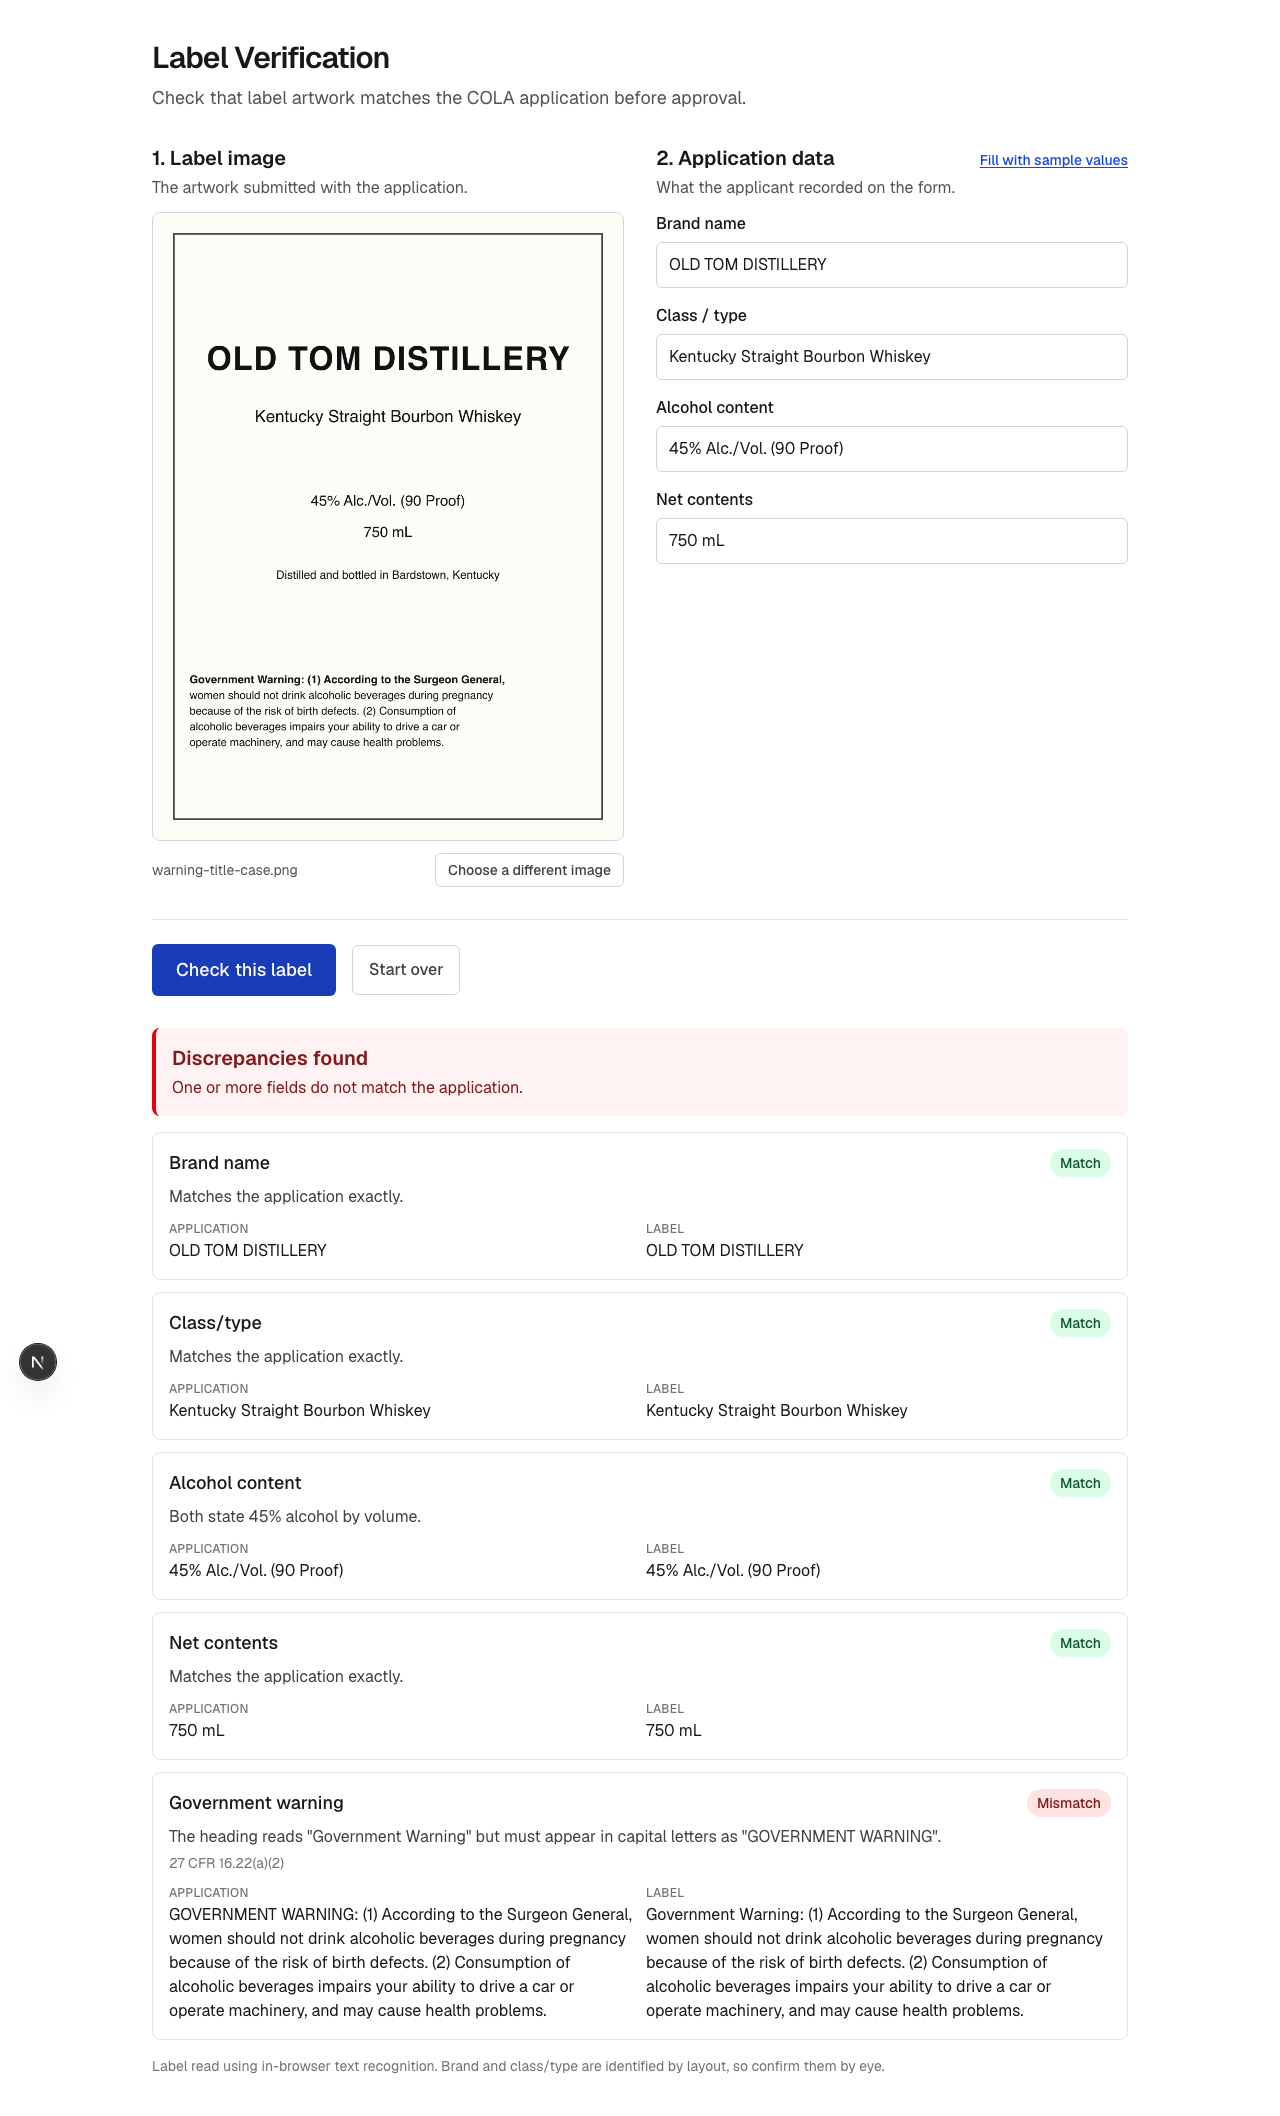
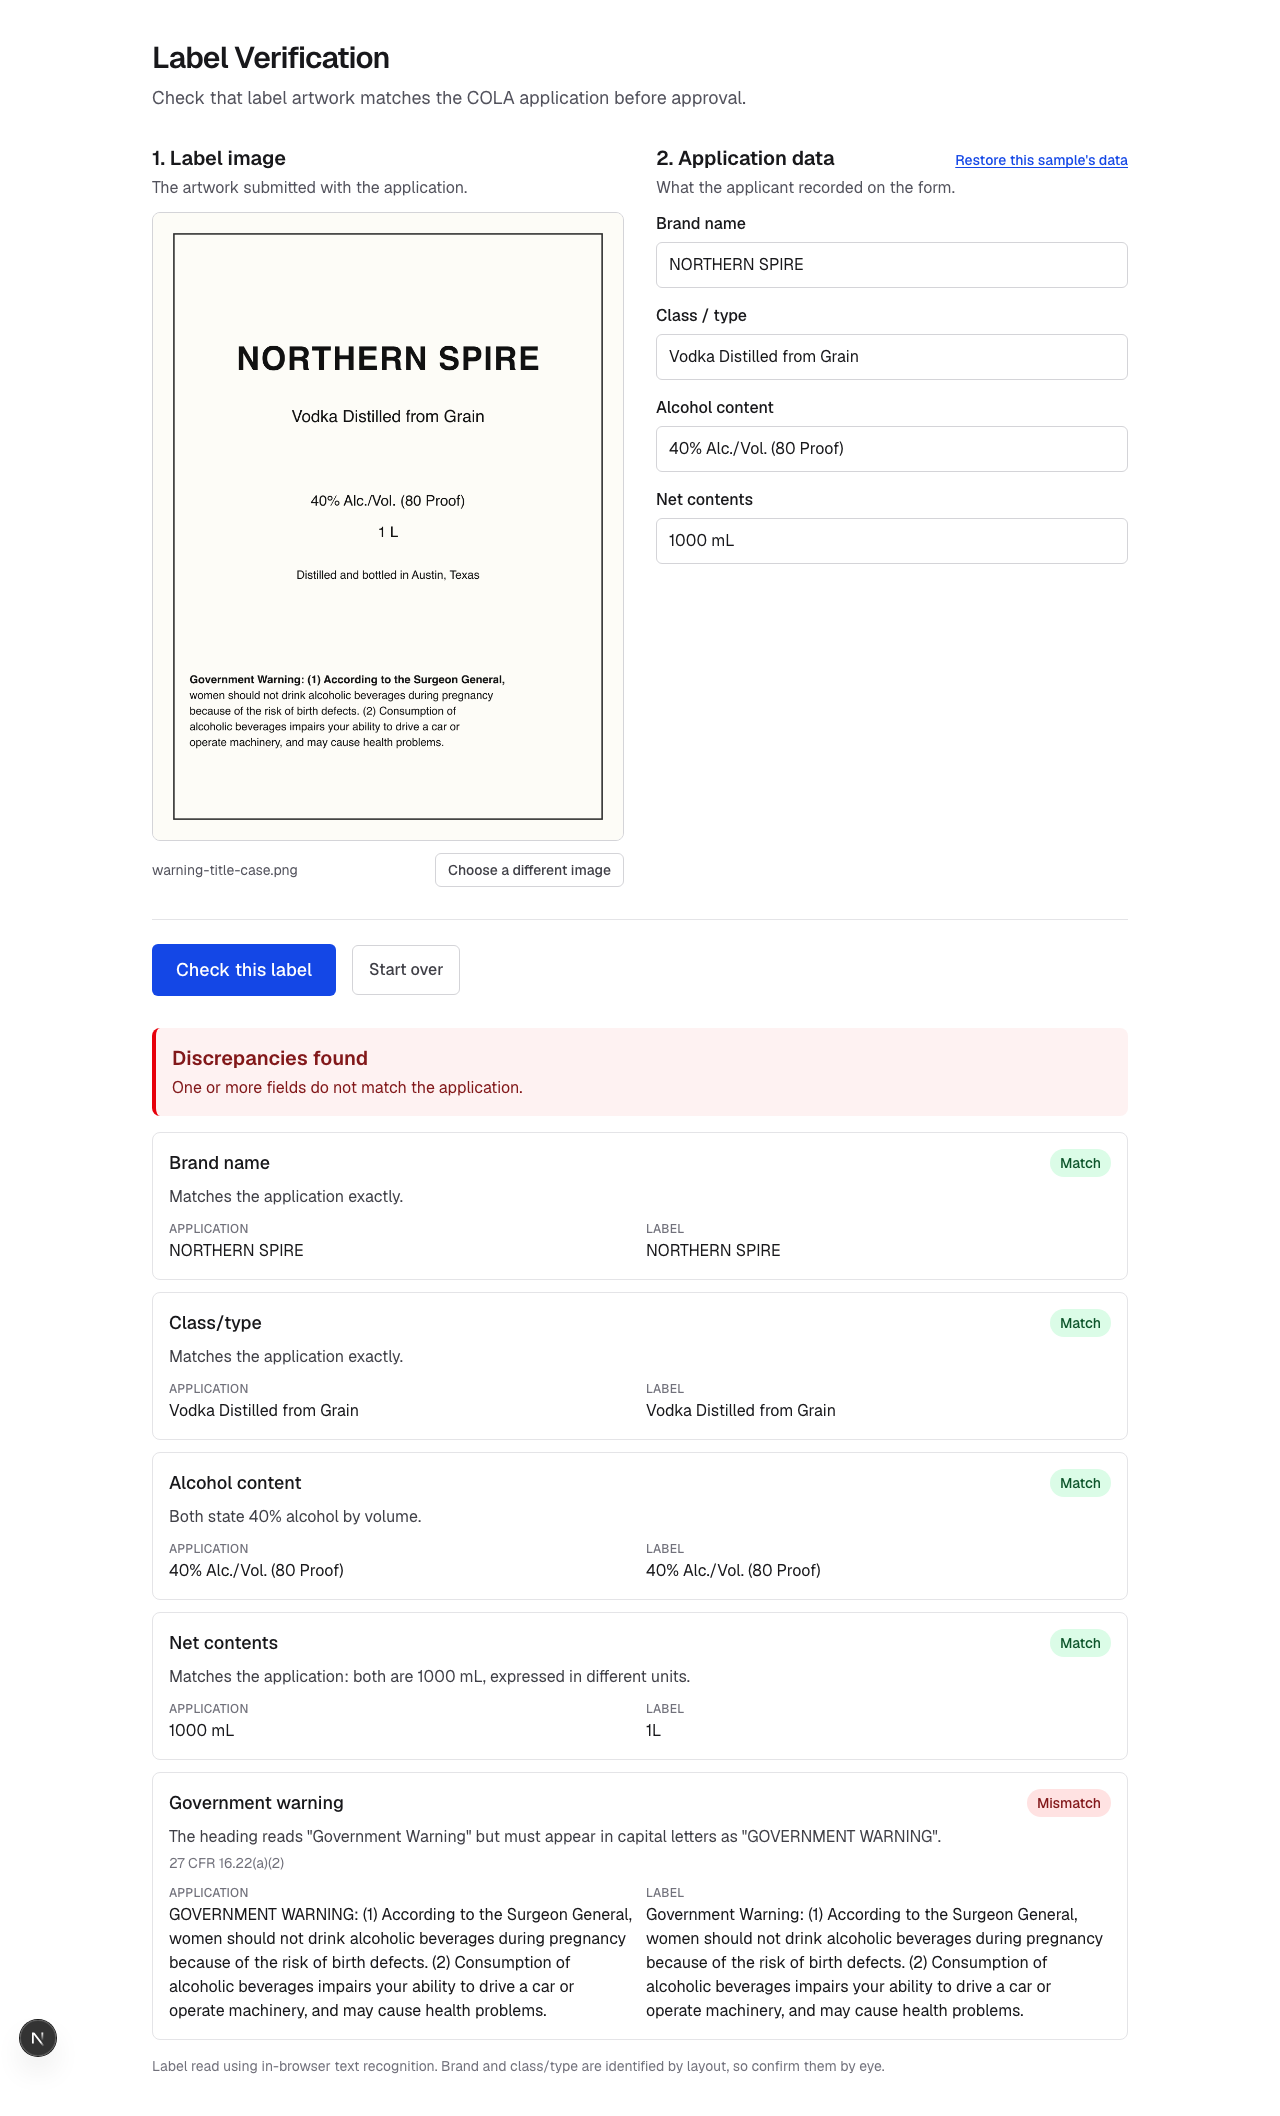
Give each sample label its own product and application
All six samples were the same bourbon checked against one shared application
record, which made the demo look like a single case repeated and hid the fact
that the application data travels with the label. Each sample is now a distinct
product with its own record, so the picker reads as six separate filings.

Two behaviours become visible as a result: the vodka is recorded in millilitres
against a label printed in litres, exercising unit conversion, and the wine
carries a sulfite declaration, confirming that extra label copy is not mistaken
for a field. The example data given in the brief stays in the unit tests.

diff --git a/lib/extraction/ocr.e2e.test.ts b/lib/extraction/ocr.e2e.test.ts
@@ -2,19 +2,12 @@ import { readFile } from "node:fs/promises";
 import { join } from "node:path";
 import { createWorker, type Worker } from "tesseract.js";
 import { afterAll, beforeAll, describe, expect, it } from "vitest";
-import type { ApplicationData } from "@/lib/verification/types";
+import { SAMPLE_LABELS } from "@/lib/samples";
 import { verify } from "@/lib/verification/verify";
 import { configureWorker } from "./ocr";
 import { extractFieldsFromOcr, type OcrLine } from "./parse-ocr";
 
 const SAMPLES = join(process.cwd(), "public", "samples");
-
-const APPLICATION: ApplicationData = {
-  brandName: "OLD TOM DISTILLERY",
-  classType: "Kentucky Straight Bourbon Whiskey",
-  alcoholContent: "45% Alc./Vol. (90 Proof)",
-  netContents: "750 mL",
-};
 
 let worker: Worker;
 
@@ -34,6 +27,14 @@ async function read(file: string) {
   return extractFieldsFromOcr(data.text ?? "", lines);
 }
 
+/** Each sample carries its own application record, so pair them by filename. */
+async function check(file: string) {
+  const sample = SAMPLE_LABELS.find((entry) => entry.file === file);
+  if (!sample) throw new Error(`No sample is registered for ${file}`);
+
+  return verify(sample.application, await read(file));
+}
+
 describe("OCR over the sample labels", () => {
   beforeAll(async () => {
     worker = await createWorker("eng");
@@ -45,7 +46,7 @@ describe("OCR over the sample labels", () => {
   });
 
   it("passes a fully compliant label", async () => {
-    const report = verify(APPLICATION, await read("compliant.png"));
+    const report = await check("compliant.png");
 
     expect(
       report.checks.map((check) => `${check.fieldId}:${check.status}`),
@@ -60,15 +61,23 @@ describe("OCR over the sample labels", () => {
   }, 60_000);
 
   it("catches a title-case warning heading", async () => {
-    const report = verify(APPLICATION, await read("warning-title-case.png"));
+    const report = await check("warning-title-case.png");
     const warning = report.checks.at(-1)!;
 
     expect(warning.status).toBe("mismatch");
     expect(warning.citation).toBe("27 CFR 16.22(a)(2)");
   }, 60_000);
 
+  it("accepts a label in litres against a record in millilitres", async () => {
+    const report = await check("warning-title-case.png");
+
+    expect(
+      report.checks.find((check) => check.fieldId === "netContents")?.status,
+    ).toBe("match");
+  }, 60_000);
+
   it("catches an alcohol content that differs from the application", async () => {
-    const report = verify(APPLICATION, await read("alcohol-mismatch.png"));
+    const report = await check("alcohol-mismatch.png");
 
     expect(report.verdict).toBe("fail");
     expect(
@@ -77,7 +86,7 @@ describe("OCR over the sample labels", () => {
   }, 60_000);
 
   it("catches a label whose proof contradicts its percentage", async () => {
-    const report = verify(APPLICATION, await read("proof-contradiction.png"));
+    const report = await check("proof-contradiction.png");
     const alcohol = report.checks.find(
       (check) => check.fieldId === "alcoholContent",
     )!;
@@ -87,13 +96,13 @@ describe("OCR over the sample labels", () => {
   }, 60_000);
 
   it("reports a label with no warning at all", async () => {
-    const report = verify(APPLICATION, await read("missing-warning.png"));
+    const report = await check("missing-warning.png");
 
     expect(report.checks.at(-1)!.status).toBe("missing");
   }, 60_000);
 
   it("passes a brand that differs only in capitalization", async () => {
-    const report = verify(APPLICATION, await read("brand-case.png"));
+    const report = await check("brand-case.png");
 
     expect(
       report.checks.find((check) => check.fieldId === "brandName")?.status,

diff --git a/lib/samples.ts b/lib/samples.ts
@@ -1,48 +1,91 @@
 import type { ApplicationData } from "@/lib/verification/types";
 
-/** Every sample label is drawn against this same application record. */
-export const SAMPLE_APPLICATION: ApplicationData = {
-  brandName: "OLD TOM DISTILLERY",
-  classType: "Kentucky Straight Bourbon Whiskey",
-  alcoholContent: "45% Alc./Vol. (90 Proof)",
-  netContents: "750 mL",
-};
-
 export interface SampleLabel {
   file: string;
-  name: string;
+  /** The discrepancy this label was drawn to demonstrate. */
+  scenario: string;
+  product: string;
   expect: string;
+  /** The application record this particular label is checked against. */
+  application: ApplicationData;
 }
 
 export const SAMPLE_LABELS: SampleLabel[] = [
   {
     file: "compliant.png",
-    name: "Compliant label",
-    expect: "Everything agrees",
+    scenario: "Fully compliant",
+    product: "Ironwood Reserve — bourbon",
+    expect: "Verifies clean",
+    application: {
+      brandName: "IRONWOOD RESERVE",
+      classType: "Kentucky Straight Bourbon Whiskey",
+      alcoholContent: "45% Alc./Vol. (90 Proof)",
+      netContents: "750 mL",
+    },
   },
   {
     file: "brand-case.png",
-    name: "Brand in mixed case",
+    scenario: "Brand in mixed case",
+    product: "Verdant Hollow Botanicals — gin",
     expect: "Still a match",
+    application: {
+      brandName: "VERDANT HOLLOW BOTANICALS",
+      classType: "London Dry Gin",
+      alcoholContent: "47% Alc./Vol. (94 Proof)",
+      netContents: "700 mL",
+    },
   },
   {
     file: "warning-title-case.png",
-    name: "Warning not capitalized",
+    scenario: "Warning not capitalized",
+    product: "Northern Spire — vodka",
     expect: "Rejected",
+    // Recorded in millilitres against a label that reads "1 L", which the
+    // net contents check resolves by converting both.
+    application: {
+      brandName: "NORTHERN SPIRE",
+      classType: "Vodka Distilled from Grain",
+      alcoholContent: "40% Alc./Vol. (80 Proof)",
+      netContents: "1000 mL",
+    },
   },
   {
     file: "alcohol-mismatch.png",
-    name: "Wrong alcohol content",
+    scenario: "Wrong alcohol content",
+    product: "Casa Miraflores — tequila",
     expect: "Rejected",
+    application: {
+      brandName: "CASA MIRAFLORES",
+      classType: "Tequila Reposado",
+      alcoholContent: "40% Alc./Vol. (80 Proof)",
+      netContents: "750 mL",
+    },
   },
   {
     file: "proof-contradiction.png",
-    name: "Proof contradicts ABV",
+    scenario: "Proof contradicts ABV",
+    product: "Salt Meadow — rum",
     expect: "Rejected",
+    application: {
+      brandName: "SALT MEADOW",
+      classType: "Aged Caribbean Rum",
+      alcoholContent: "43% Alc./Vol. (86 Proof)",
+      netContents: "750 mL",
+    },
   },
   {
     file: "missing-warning.png",
-    name: "No health warning",
+    scenario: "No health warning",
+    product: "Pine Fork Vineyards — cabernet",
     expect: "Needs review",
+    application: {
+      brandName: "PINE FORK VINEYARDS",
+      classType: "Napa Valley Cabernet Sauvignon",
+      alcoholContent: "13.5% Alc./Vol.",
+      netContents: "750 mL",
+    },
   },
 ];
+
+/** Used by the form's fill button before any sample has been chosen. */
+export const SAMPLE_APPLICATION = SAMPLE_LABELS[0].application;

diff --git a/components/label-verifier.tsx b/components/label-verifier.tsx
@@ -8,7 +8,7 @@ import { SamplePicker } from "@/components/sample-picker";
 import { extractLabel, type ExtractionStage } from "@/lib/extraction/client";
 import { warmUpOcr } from "@/lib/extraction/ocr";
 import { ExtractionError, type ExtractionSource } from "@/lib/extraction/types";
-import { SAMPLE_APPLICATION } from "@/lib/samples";
+import { SAMPLE_APPLICATION, type SampleLabel } from "@/lib/samples";
 import type { ApplicationData, VerificationReport } from "@/lib/verification/types";
 import { verify } from "@/lib/verification/verify";
 
@@ -38,6 +38,7 @@ interface Outcome {
 
 export function LabelVerifier() {
   const [file, setFile] = useState<File | null>(null);
+  const [sample, setSample] = useState<SampleLabel | null>(null);
   const [application, setApplication] = useState<ApplicationData>(EMPTY);
   const [stage, setStage] = useState<ExtractionStage | null>(null);
   const [outcome, setOutcome] = useState<Outcome | null>(null);
@@ -93,15 +94,24 @@ export function LabelVerifier() {
     }
   }
 
-  function chooseSample(sample: File) {
-    setFile(sample);
-    setApplication(SAMPLE_APPLICATION);
+  function chooseSample(chosen: SampleLabel, image: File) {
+    setFile(image);
+    setSample(chosen);
+    setApplication(chosen.application);
     setOutcome(null);
     setError(null);
   }
 
+  // An uploaded image has no application record of its own, so any sample
+  // loaded earlier no longer describes what is on screen.
+  function selectFile(chosen: File | null) {
+    setFile(chosen);
+    setSample(null);
+  }
+
   function reset() {
     setFile(null);
+    setSample(null);
     setApplication(EMPTY);
     setOutcome(null);
     setError(null);
@@ -126,7 +136,7 @@ export function LabelVerifier() {
             <p className="mb-3 mt-1 text-zinc-600">
               The artwork submitted with the application.
             </p>
-            <ImageDrop file={file} onSelect={setFile} disabled={busy} />
+            <ImageDrop file={file} onSelect={selectFile} disabled={busy} />
           </div>
 
           {!file && <SamplePicker onChoose={chooseSample} disabled={busy} />}
@@ -139,11 +149,13 @@ export function LabelVerifier() {
             </h2>
             <button
               type="button"
-              onClick={() => setApplication(SAMPLE_APPLICATION)}
+              onClick={() =>
+                setApplication(sample?.application ?? SAMPLE_APPLICATION)
+              }
               disabled={busy}
               className="text-sm font-medium text-blue-700 underline underline-offset-2 hover:text-blue-900 disabled:opacity-50"
             >
-              Fill with sample values
+              {sample ? "Restore this sample's data" : "Fill with sample values"}
             </button>
           </div>
           <p className="mb-3 mt-1 text-zinc-600">

diff --git a/components/sample-picker.tsx b/components/sample-picker.tsx
@@ -4,7 +4,7 @@ import { useState } from "react";
 import { SAMPLE_LABELS, type SampleLabel } from "@/lib/samples";
 
 interface Props {
-  onChoose: (file: File) => void;
+  onChoose: (sample: SampleLabel, file: File) => void;
   disabled?: boolean;
 }
 
@@ -21,7 +21,7 @@ export function SamplePicker({ onChoose, disabled }: Props) {
       if (!response.ok) throw new Error(String(response.status));
 
       const blob = await response.blob();
-      onChoose(new File([blob], sample.file, { type: "image/png" }));
+      onChoose(sample, new File([blob], sample.file, { type: "image/png" }));
     } catch {
       setError("That sample could not be loaded. Try uploading an image instead.");
     } finally {
@@ -35,8 +35,8 @@ export function SamplePicker({ onChoose, disabled }: Props) {
         No label to hand? Try one of these
       </h3>
       <p className="mt-1 text-sm text-zinc-600">
-        Each one loads the matching application data too, so you can check it
-        straight away.
+        Six different applications, each with its own product. Choosing one
+        loads its application data too, so you can check it straight away.
       </p>
 
       <ul className="mt-3 grid grid-cols-2 gap-2 sm:grid-cols-3">
@@ -44,14 +44,18 @@ export function SamplePicker({ onChoose, disabled }: Props) {
           <li key={sample.file}>
             <button
               type="button"
+              data-sample={sample.file}
               onClick={() => choose(sample)}
               disabled={disabled || loading !== null}
               className="flex h-full w-full flex-col items-start gap-1 rounded-md border border-zinc-300 p-2.5 text-left hover:border-zinc-500 hover:bg-zinc-50 disabled:opacity-50"
             >
               <span className="text-sm font-medium text-zinc-900">
-                {loading === sample.file ? "Loading…" : sample.name}
+                {loading === sample.file ? "Loading…" : sample.scenario}
               </span>
-              <span className="text-xs text-zinc-600">{sample.expect}</span>
+              <span className="text-xs text-zinc-600">{sample.product}</span>
+              <span className="mt-auto pt-1 text-xs font-medium text-zinc-500">
+                {sample.expect}
+              </span>
             </button>
           </li>
         ))}

diff --git a/components/application-form.tsx b/components/application-form.tsx
@@ -1,5 +1,6 @@
 "use client";
 
+import { SAMPLE_APPLICATION } from "@/lib/samples";
 import type { ApplicationData } from "@/lib/verification/types";
 
 interface Props {
@@ -8,19 +9,11 @@ interface Props {
   disabled?: boolean;
 }
 
-const FIELDS: { key: keyof ApplicationData; label: string; hint: string }[] = [
-  { key: "brandName", label: "Brand name", hint: "OLD TOM DISTILLERY" },
-  {
-    key: "classType",
-    label: "Class / type",
-    hint: "Kentucky Straight Bourbon Whiskey",
-  },
-  {
-    key: "alcoholContent",
-    label: "Alcohol content",
-    hint: "45% Alc./Vol. (90 Proof)",
-  },
-  { key: "netContents", label: "Net contents", hint: "750 mL" },
+const FIELDS: { key: keyof ApplicationData; label: string }[] = [
+  { key: "brandName", label: "Brand name" },
+  { key: "classType", label: "Class / type" },
+  { key: "alcoholContent", label: "Alcohol content" },
+  { key: "netContents", label: "Net contents" },
 ];
 
 export function ApplicationForm({ value, onChange, disabled }: Props) {
@@ -38,7 +31,7 @@ export function ApplicationForm({ value, onChange, disabled }: Props) {
             id={field.key}
             type="text"
             value={value[field.key]}
-            placeholder={field.hint}
+            placeholder={SAMPLE_APPLICATION[field.key]}
             disabled={disabled}
             onChange={(event) =>
               onChange({ ...value, [field.key]: event.target.value })

diff --git a/README.md b/README.md
@@ -15,18 +15,19 @@ browser, so the deployment holds no keys and stores nothing.
 
 ## Try it in one minute
 
-Open the app, pick one of the built-in sample labels, and press **Check this
-label**. Each sample loads its matching application data, so nothing needs
-typing. The images also live in [`public/samples`](public/samples).
+Open the app, pick one of the built-in samples, and press **Check this label**.
+Each one is a separate application for a different product, and choosing it
+loads both the artwork and the data submitted with it, so nothing needs typing.
+The images also live in [`public/samples`](public/samples).
 
-| Sample | What it demonstrates |
-| --- | --- |
-| Compliant label | Everything agrees. Verifies clean. |
-| Brand in mixed case | Brand differs only in capitalization. Still passes. |
-| Warning not capitalized | Title-case heading. Rejected, citing 16.22(a)(2). |
-| Wrong alcohol content | Label says 40%, application says 45%. |
-| Proof contradicts ABV | Label states 45% and 80 proof, which cannot both be true. |
-| No health warning | The statement is missing entirely. |
+| Sample | Product | What it demonstrates |
+| --- | --- | --- |
+| Fully compliant | Ironwood Reserve, bourbon | Everything agrees. Verifies clean. |
+| Brand in mixed case | Verdant Hollow Botanicals, gin | Brand differs only in capitalization. Still passes. |
+| Warning not capitalized | Northern Spire, vodka | Title-case heading. Rejected, citing 16.22(a)(2). Its volume is also recorded as 1000 mL against a label reading 1 L, which still matches. |
+| Wrong alcohol content | Casa Miraflores, tequila | Label says 38%, application says 40%. |
+| Proof contradicts ABV | Salt Meadow, rum | Label states 43% and 80 proof, which cannot both be true. |
+| No health warning | Pine Fork Vineyards, cabernet | The statement is missing entirely. |
 
 ## Setup
 
